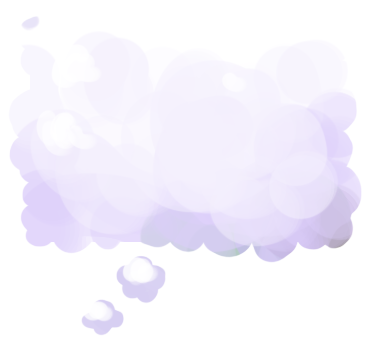
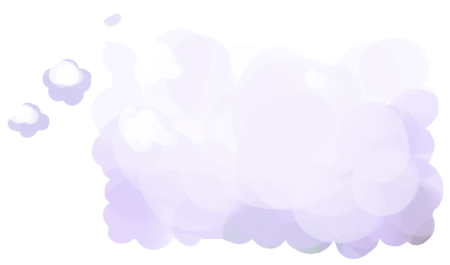
Tutorial text support.

diff --git a/src/world.js b/src/world.js
@@ -44,6 +44,7 @@ var WORLD = (function () {
         panel = batch.load("panel.png"),
         movePanel = batch.load("moves-box.png"),
         rewindPanel = batch.load("rewinds-box.png"),
+        textBubble = batch.load("text-bubble.png"),
         resetImage = batch.load("reset.png"),
         handImage = batch.load("clock-hand.png"),
         persistOverlay = batch.load("hand-persist-2.png"),
@@ -532,6 +533,7 @@ var WORLD = (function () {
         this.gameOver = false;
         this.setupPlayer();
         this.musicTimer = null;
+        this.tutorial = ["TAP, CLICK, WASD", "or arrow keys to move."];
     }
 
     World.prototype.reset = function() {
@@ -604,7 +606,7 @@ var WORLD = (function () {
             }
             return true;
         }
-        
+       
         if (keyboard.wasKeyPressed(IO.KEYS.Space) || this.clickedReset(pointer)) {
             this.reset();
         }
@@ -614,6 +616,13 @@ var WORLD = (function () {
         }
 
         AGENT.updateAnims(elapsed);
+        
+        if (this.tutorial) {
+            if (keyboard.keysDown() > 0 || pointer.activated()) {
+                this.tutorial = null;
+            }
+            return;
+        }
 
         if (this.rewinding) {
             BLIT.updatePlaybacks(elapsed, [goatExcited, goatStoic]);
@@ -1011,7 +1020,18 @@ var WORLD = (function () {
 
         var goat = this.rewinding ? goatExcited : goatStoic;
         goat.draw(context, -this.tileHeight * 0.7, this.totalHeight() * 0.5, BLIT.ALIGN.Center, goat.width() * scale, goat.height() * scale, BLIT.MIRROR.Horizontal);
-
+        
+        if (this.tutorial) {
+            BLIT.draw(context, textBubble, 0, this.totalHeight() * 0.5, BLIT.ALIGN.Left | BLIT.ALIGN.Center);
+            context.font = "20px sans-serif";
+            var TEXT_HEIGHT = 40,
+                yOffset = -(this.tutorial.length - 1) * TEXT_HEIGHT * 0.5;
+            for (var line = 0; line < this.tutorial.length; ++line) {
+                BLIT.centeredText(context, this.tutorial[line], 270, this.totalHeight() * 0.5 + yOffset, "black");
+                yOffset += TEXT_HEIGHT;
+            }
+        }
+        
         context.restore();
     };
 
